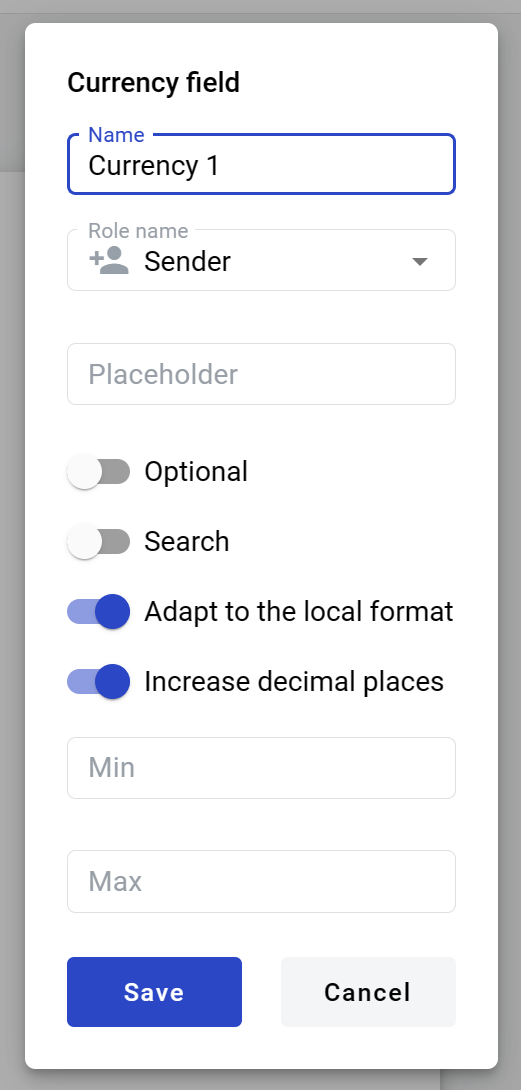
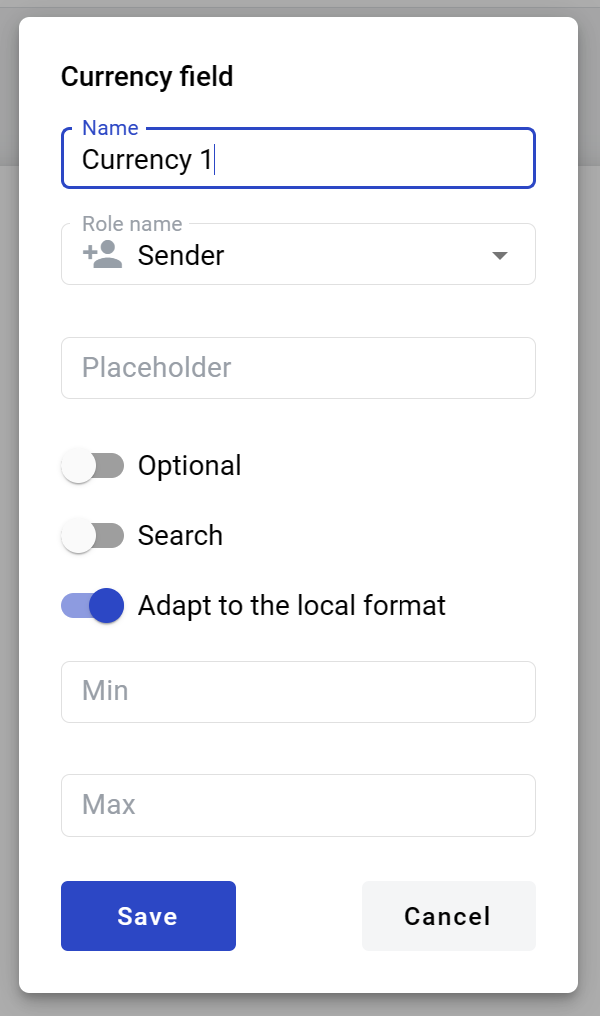
some fixes

diff --git a/docs/source/pages/howToWorkWithPlatform/mainApplication/templateList/templateManagement/documentManagementOnTemplate/fields/currency/currency.rst b/docs/source/pages/howToWorkWithPlatform/mainApplication/templateList/templateManagement/documentManagementOnTemplate/fields/currency/currency.rst
@@ -28,9 +28,8 @@ How to add currency field to template
 
 .. note:: Numbers in envelope view will be formatted according to standard of a region which is selected on User profile page. You can see formatting example under region selector on that page. Numbers in printable versions of the documents will always be formatted according to platform region standard.
 
-9. Increase decimal places - if enabled, zeroes will be added to fill all empty decimal places of field value
-10. Min - minimal value allowed in field (no limit is applied if left empty)
-11. Max - maximal value allowed in field (no limit is applied if left empty)
+9. Min - minimal value allowed in field (no limit is applied if left empty)
+10. Max - maximal value allowed in field (no limit is applied if left empty)
 
 .. warning:: Maximum allowed character count for currency field is 15 (according to `IEEE 754 <http://https://en.wikipedia.org/wiki/IEEE_754>`_). Please note this includes decimal places. This means that if you insert a value 999999999999999 or more characters, it will be converted to 9999999999999.00.
 

diff --git a/docs/source/pages/apiIntegration/methods/templateCreation.rst b/docs/source/pages/apiIntegration/methods/templateCreation.rst
@@ -36,7 +36,7 @@ Template creation
 	<documents>
 		<document id=\"4a61f258-fd9d-406c-b47e-81c90d4e5c47\">
 			<info>
-				<title>New Document</title>
+				<title>New document</title>
 			</info>
 			<body>
 				<div class=\"editor-div\">Structured document</div>
@@ -77,7 +77,7 @@ Depending on your needs, you can add different types of fields `template fields 
         <documents>
             <document id=\"4a61f258-fd9d-406c-b47e-81c90d4e5c47\">
                 <info>
-                    <title>New Document</title>
+                    <title>New document</title>
                 </info>
                 <body>
                     <div class=\"editor-div\">Structured document</div>

diff --git a/docs/source/pages/howToWorkWithPlatform/adminApplication/permissionsList/permissionsList.rst b/docs/source/pages/howToWorkWithPlatform/adminApplication/permissionsList/permissionsList.rst
@@ -112,7 +112,7 @@ Mailbox permissions
    * - envelopeListView
      - 2004
      - Allows to view envelopes list and elements on dashboard which related to envelope list (counters and wwaiting for you block)
-   * - envelopeListView
+   * - envelopeDelegate
      - 2012
      - Allows to delegate envelopes and configure automatic forwarding rule for mailbox
    * - categoryManage

diff --git a/docs/source/pages/apiIntegration/templateEnvelopeStructure/templateStructure.rst b/docs/source/pages/apiIntegration/templateEnvelopeStructure/templateStructure.rst
@@ -69,7 +69,7 @@ Template consists of two blocks:
         <documents>
             <document id=\"ef247568-559a-4ec1-9ecc-6b44c9fb8215\">
                 <info>
-                    <title>New Document</title>
+                    <title>New document</title>
                 </info>
                 <body>
                     <div class=\"editor-div\">
